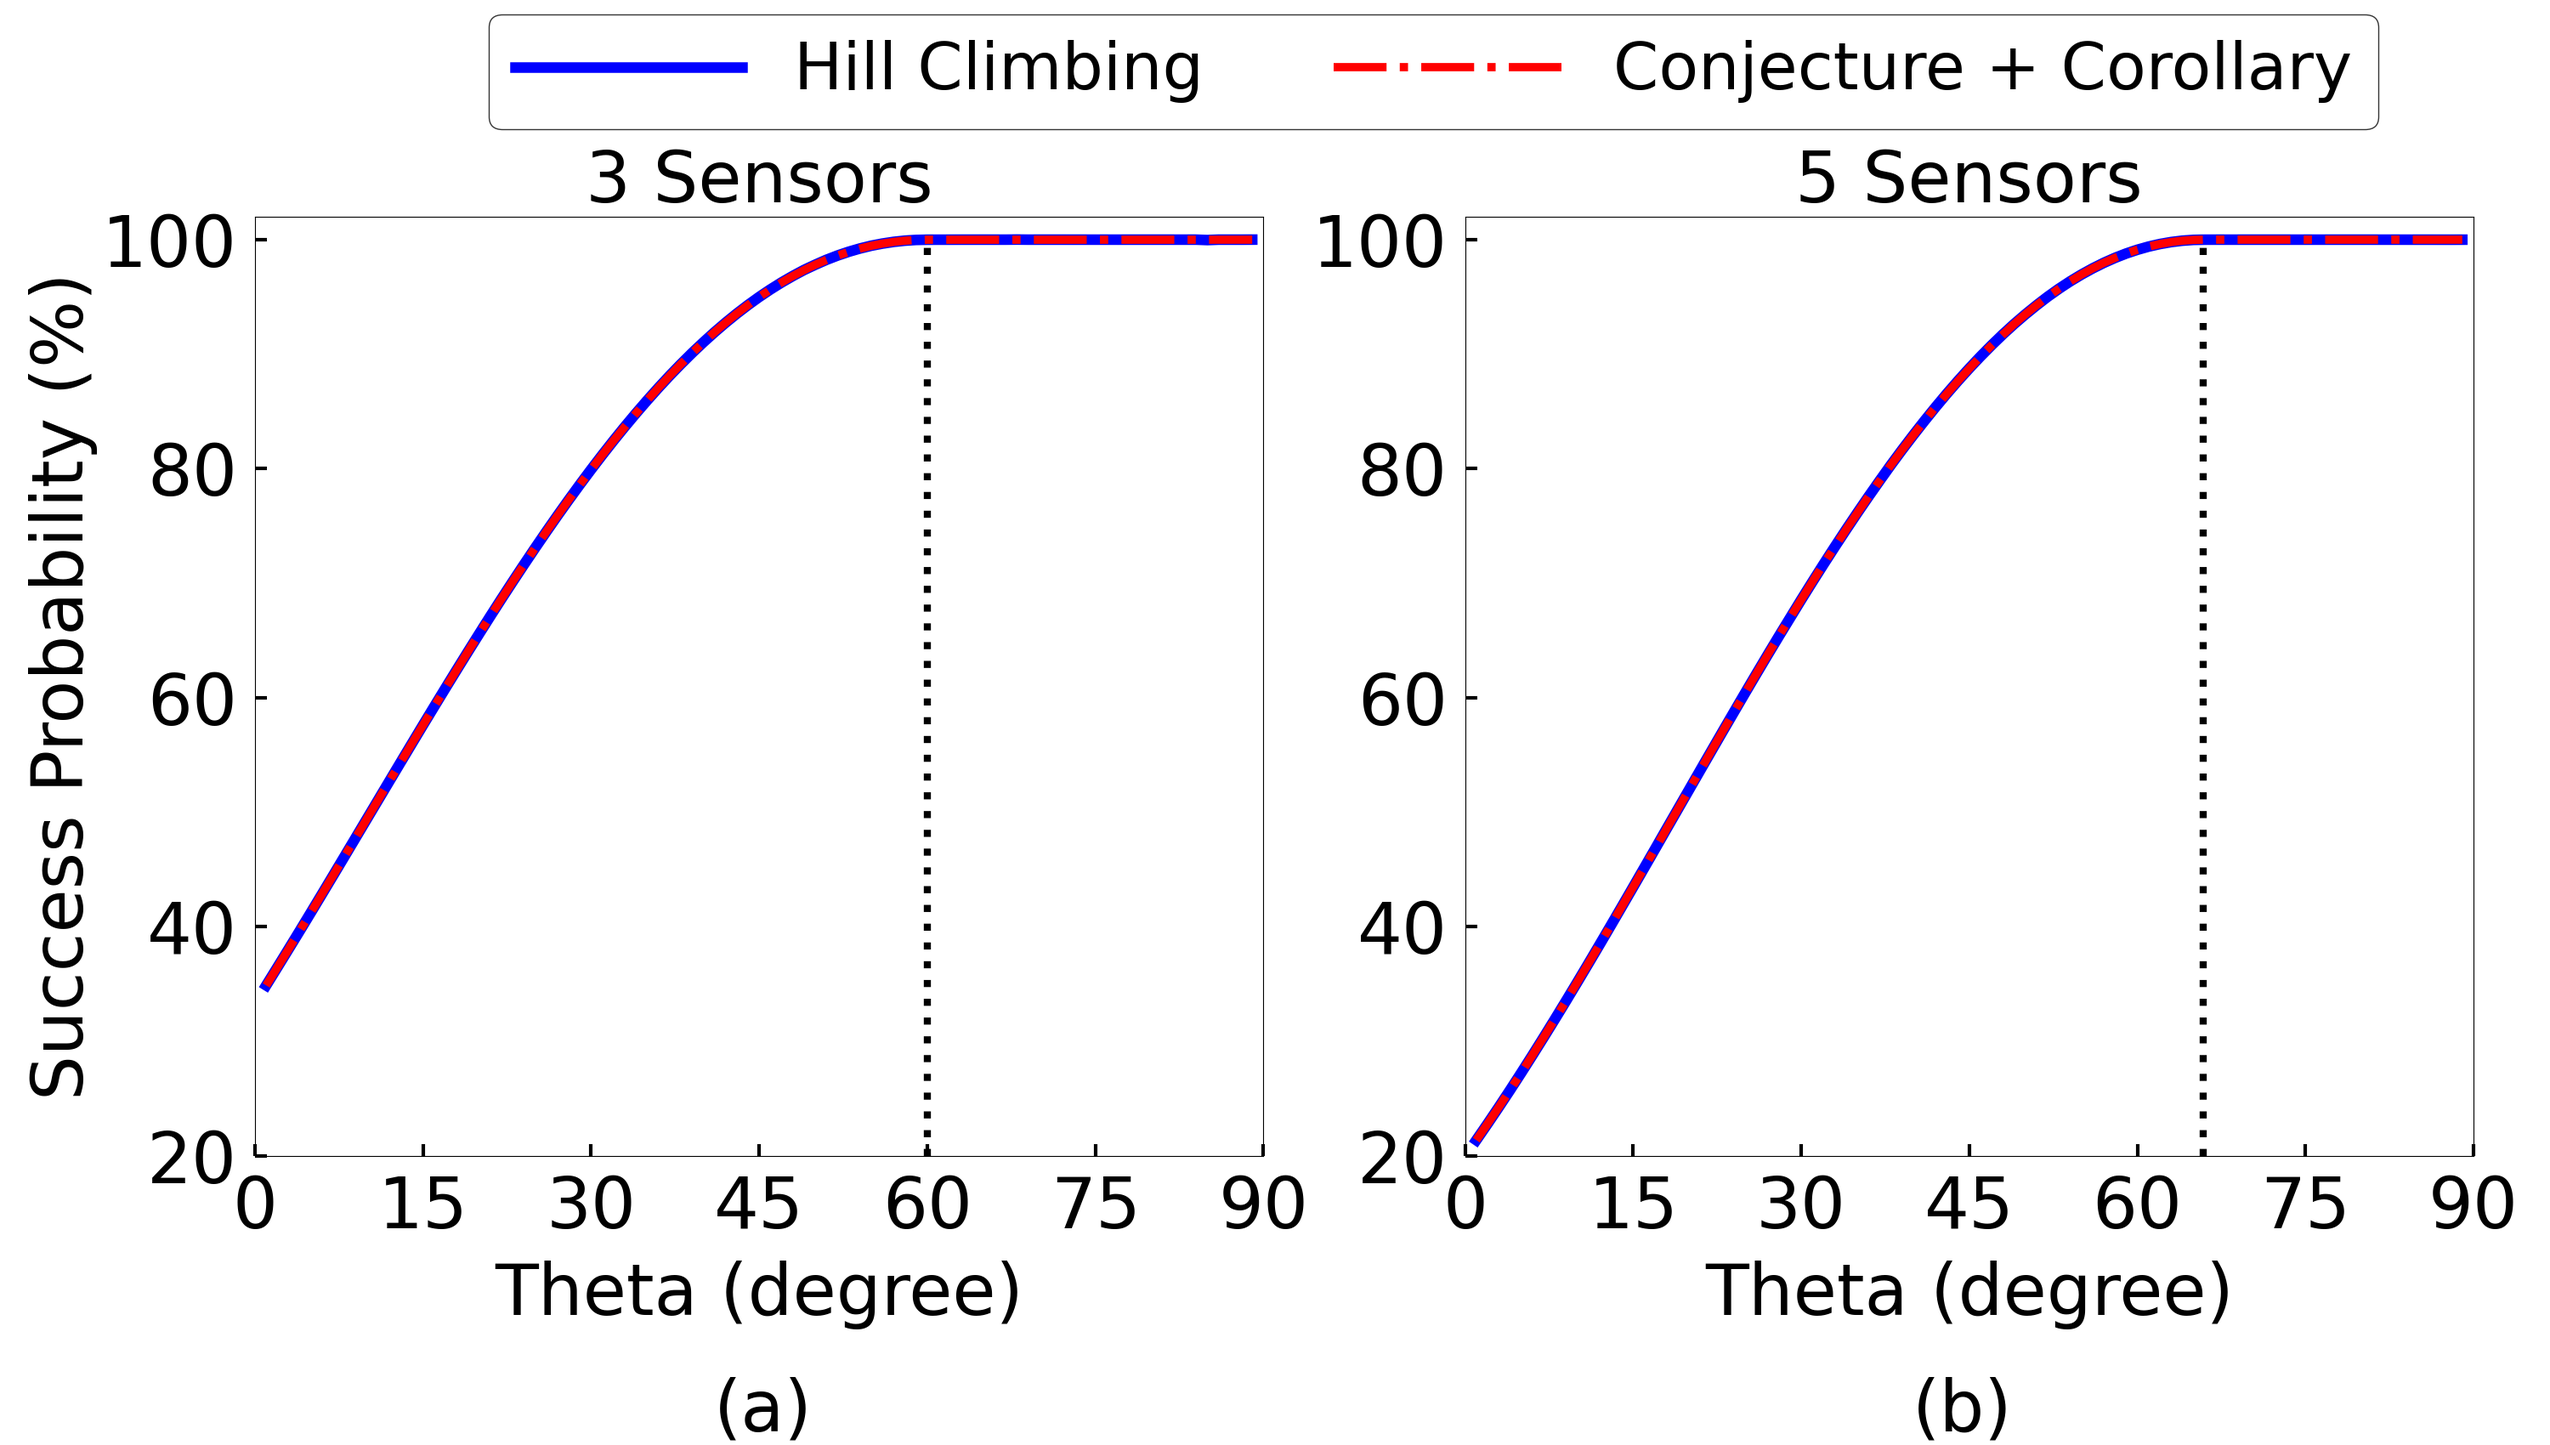
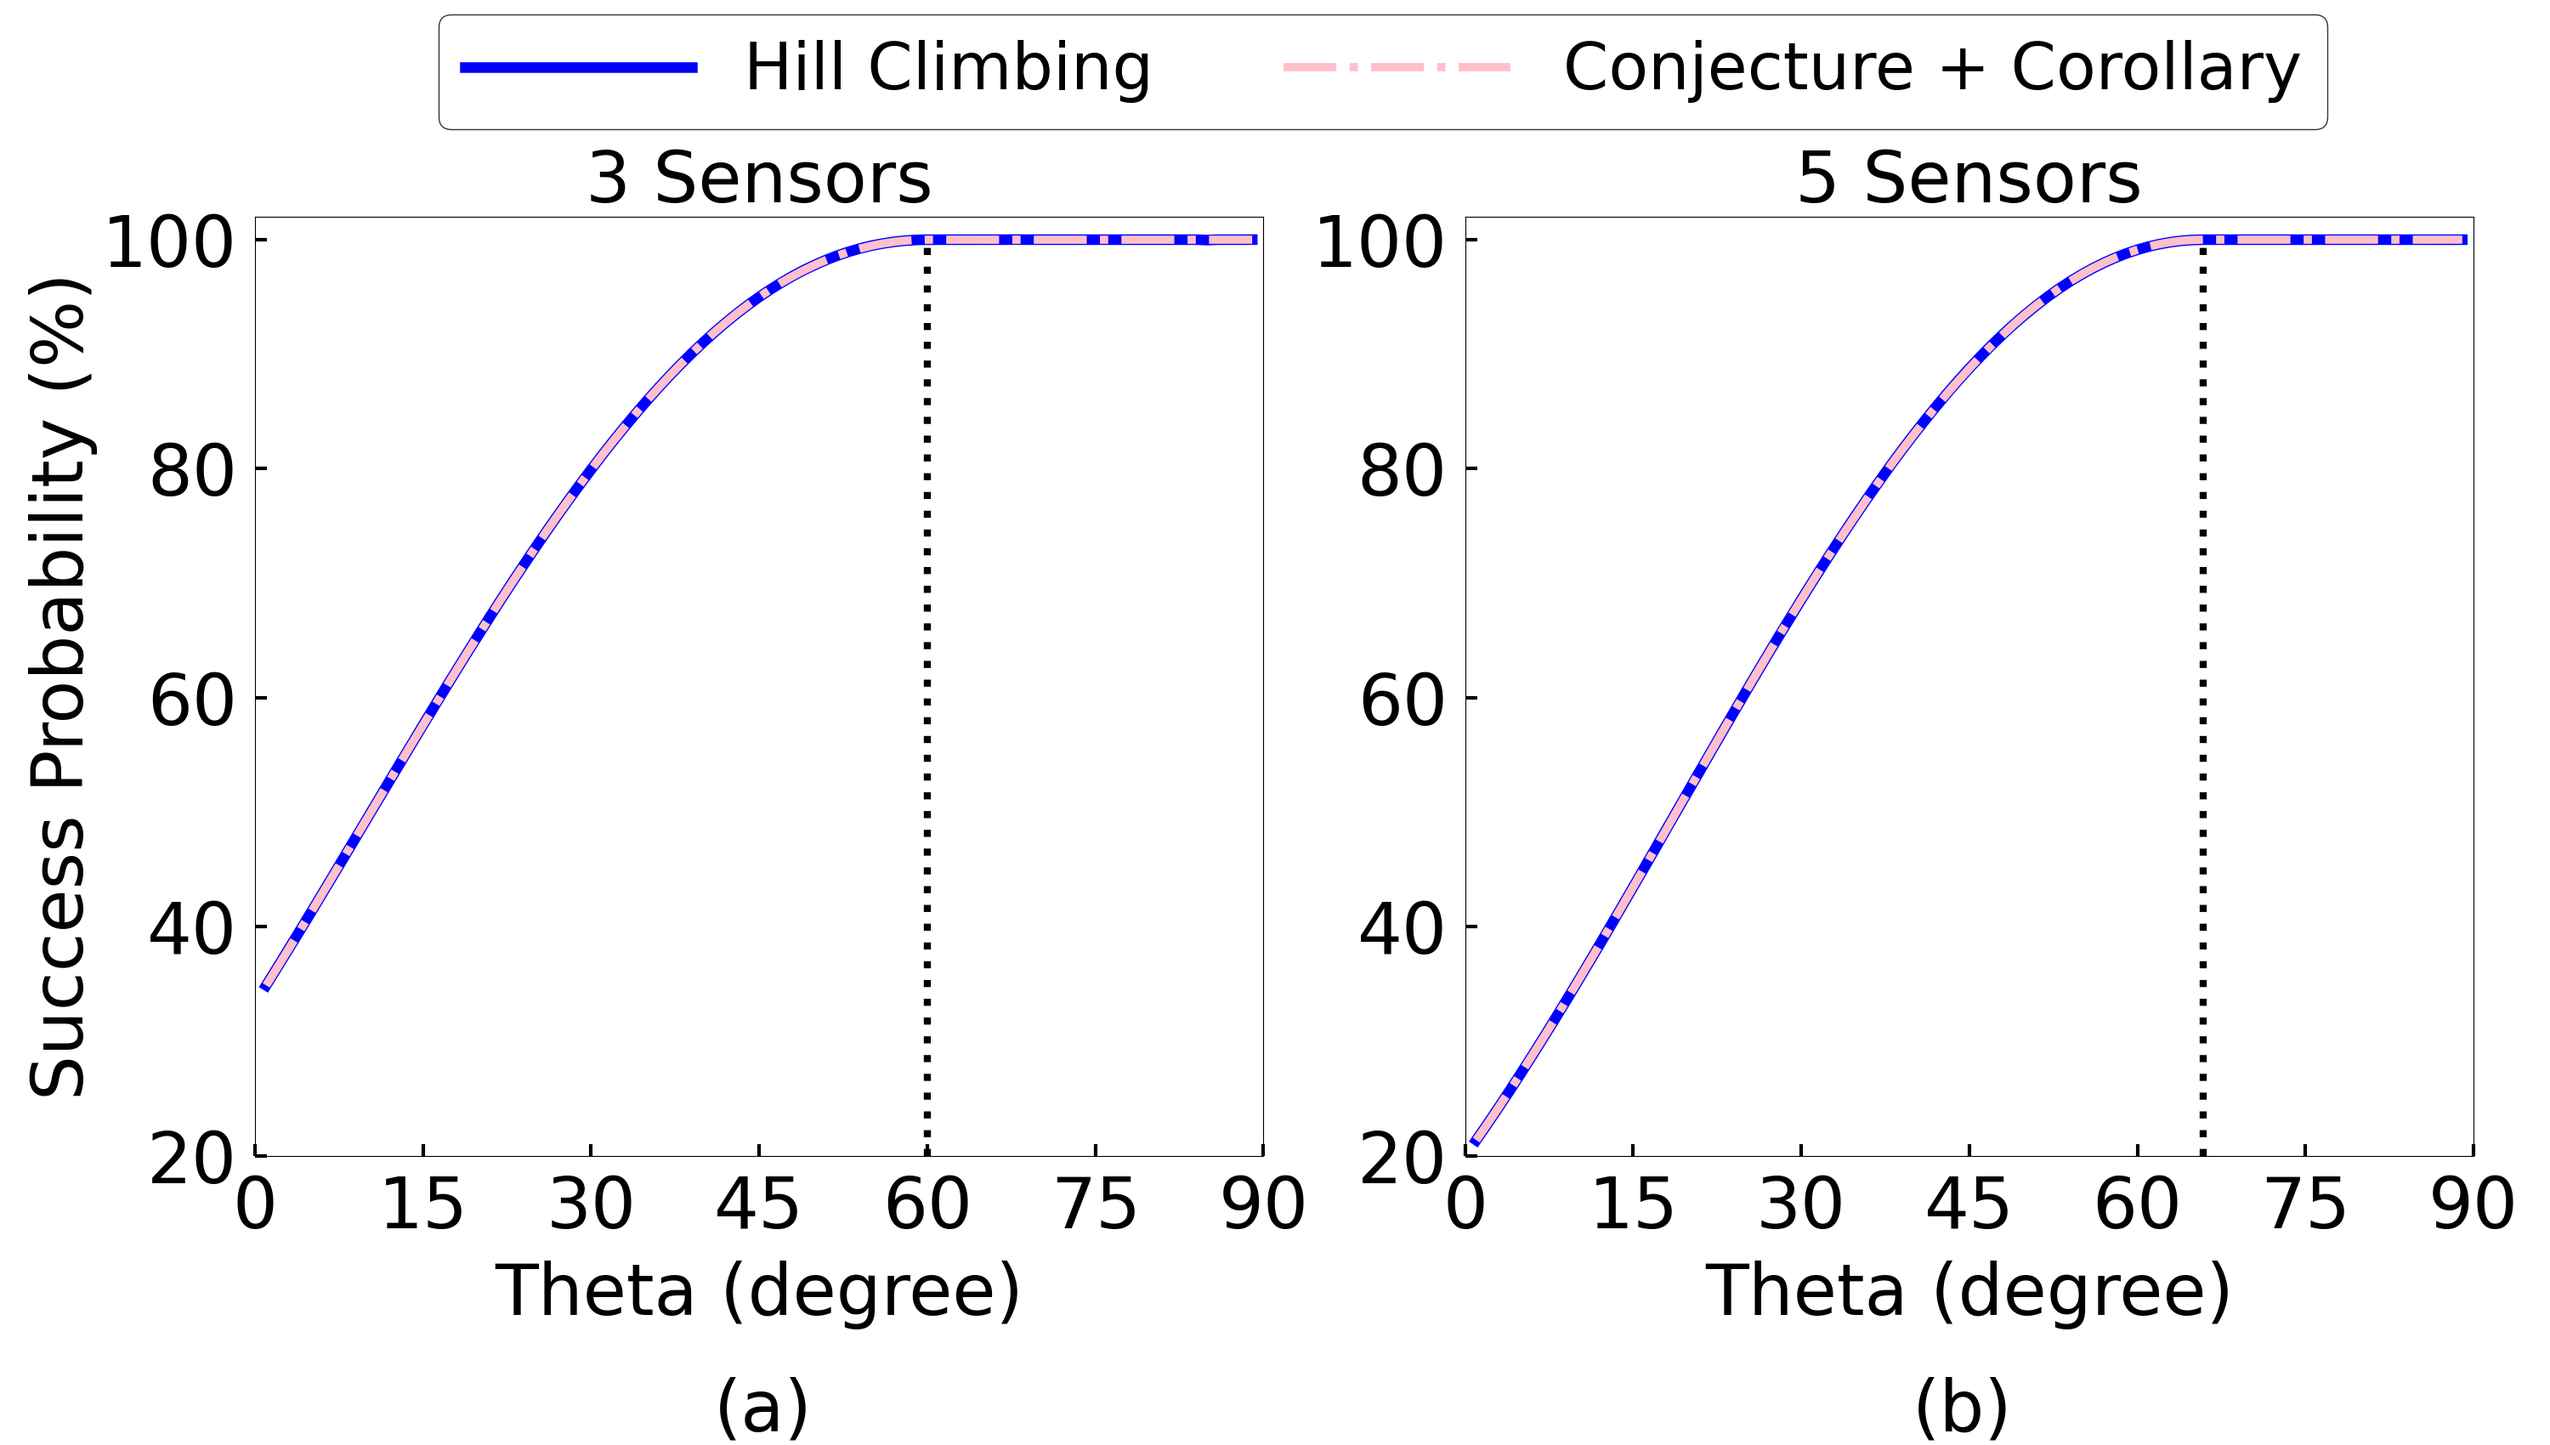
new plot for conjecture; rename files

diff --git a/plot2.py b/plot2.py
@@ -6,6 +6,7 @@ from optimize_initial_state import OptimizeInitialState
 from utility import Utility
 from collections import defaultdict
 
+
 class Plot:
 
     plt.rcParams['font.size'] = 60
@@ -20,7 +21,7 @@ class Plot:
     LINE_STYLE = dict(zip(_METHOD, _STYLE))
 
     _METHOD = ['Hill climbing', 'Simulated annealing', 'Genetic algorithm', 'Theorem']
-    _COLOR  = ['blue',   'orange',              'green',             'red']
+    _COLOR  = ['blue',          'orange',              'green',             'pink']
     COLOR   = dict(zip(_METHOD, _COLOR))
 
 
@@ -56,7 +57,7 @@ class Plot:
         ax.vlines(x=45,   ymin=0.2, ymax=1, linestyles='dotted', colors='black')
         ax.vlines(x=60,   ymin=0.2, ymax=1, linestyles='dotted', colors='black')
         ax.vlines(x=65.9, ymin=0.2, ymax=1, linestyles='dotted', colors='black')
-        ax.legend(fontsize='55', loc='center', bbox_to_anchor=(0.6, 0.25), edgecolor='black')
+        ax.legend(fontsize=55, loc='center', bbox_to_anchor=(0.6, 0.25), edgecolor='black')
         xticks = [i for i in range(0, 181, 15)]
         ax.set_xticks(xticks)
         ax.set_xticklabels([f'{x}' for x in xticks])
@@ -103,6 +104,7 @@ class Plot:
         Y2 = table2
         
         # plotting
+        arrowprops = dict(facecolor='black', width=5, headwidth=25)
         methods = ['Hill climbing', 'Simulated annealing', 'Genetic algorithm']
         fig, (ax0, ax1) = plt.subplots(1, 2, figsize=(30, 17))
         fig.subplots_adjust(left=0.1, right=0.97, top=0.85, bottom=0.2)
@@ -127,7 +129,8 @@ class Plot:
         ax0.set_xlim([0, 90])
         ax0.set_ylim([0.2, 1.02])
         ax0.set_ylabel('Success Probability (%)')
-        ax0.text(42, 0.865, '(40, 0.883)', fontsize=50)
+        ax0.annotate('(40, 0.883)', xy=(42, 0.883), xytext=(51, 0.883), arrowprops=arrowprops, fontsize=50, va='center')
+        # ax0.text(42.5, 0.864, '(40, 0.883)', fontsize=50)
         # ax1
         ax1.plot(Y2[methods[0]], linestyle=Plot.LINE_STYLE[methods[0]], color=Plot.COLOR[methods[0]], linewidth=9)
         ax1.plot(Y2[methods[1]], linestyle=Plot.LINE_STYLE[methods[1]], color=Plot.COLOR[methods[1]], linewidth=7)
@@ -144,6 +147,7 @@ class Plot:
         ax1.set_xlabel('Iteration Number', labelpad=15)
         ax1.set_xlim([-1, 50])
         ax1.set_ylim([0.805, 0.89])
+        ax1.annotate('Random Initial State', xy=(0.7, 0.811), xytext=(6, 0.811), arrowprops=arrowprops, fontsize=50, va='center')
         plt.figtext(0.28, 0.01, '(a)')
         plt.figtext(0.75, 0.01, '(b)')
         fig.savefig(filename)
@@ -270,7 +274,7 @@ class Plot:
         ax0.tick_params(axis='x', direction='in', length=10, width=3, pad=15)
         ax0.tick_params(axis='y', direction='in', length=10, width=3, pad=15)
         ax0.set_title('3 Sensors', fontsize=60)
-        ax0.legend(ncol=2, loc='upper left', bbox_to_anchor=(0.2, 1.2, 0.05, 0.05), fontsize=55, handlelength=3.5, edgecolor='black')
+        ax0.legend(ncol=2, loc='upper left', bbox_to_anchor=(0.15, 1.2, 0.05, 0.05), fontsize=55, handlelength=3.5, edgecolor='black')
         ax0.set_xlabel('Theta (degree)', labelpad=15)
         ax0.set_ylabel('Success Probability (%)')
         # ax1
@@ -294,6 +298,107 @@ class Plot:
         fig.savefig(filename)
 
 
+    @staticmethod
+    def conjecture_2(data, filename):
+        # data
+        table_6sensor = defaultdict(list)
+        table_7sensor = defaultdict(list)
+        table_8sensor = defaultdict(list)
+        table_9sensor = defaultdict(list)
+        for myinput, output_by_methods in data:
+            if myinput.num_sensor == 6:
+                for method, output in output_by_methods.items():
+                    table_6sensor[method].append({myinput.unitary_theta: output.success})
+            if myinput.num_sensor == 7:
+                for method, output in output_by_methods.items():
+                    table_7sensor[method].append({myinput.unitary_theta: output.success})
+            if myinput.num_sensor == 8:
+                for method, output in output_by_methods.items():
+                    table_8sensor[method].append({myinput.unitary_theta: output.success})
+            if myinput.num_sensor == 9:
+                for method, output in output_by_methods.items():
+                    table_9sensor[method].append({myinput.unitary_theta: output.success})
+
+        X = [i for i in range(1, 91)]
+        Y6 = defaultdict(list)
+        for method, mylist in table_6sensor.items():
+            y = defaultdict(list)
+            for key_val in mylist: # each theta only one experiment
+                for theta, success in key_val.items():
+                    y[theta] = success
+            y2 = []
+            for theta in X:
+                if theta in y:
+                    y2.append(y[theta])
+                else:
+                    raise Exception(f'data missing: theta={theta}')
+            Y6[method] = y2
+        Y7 = defaultdict(list)
+        for method, mylist in table_7sensor.items():
+            y = defaultdict(list)
+            for key_val in mylist: # each theta only one experiment
+                for theta, success in key_val.items():
+                    y[theta] = success
+            y2 = []
+            for theta in X:
+                if theta in y:
+                    y2.append(y[theta])
+                else:
+                    raise Exception(f'data missing: theta={theta}')
+            Y7[method] = y2
+        Y8 = defaultdict(list)
+        for method, mylist in table_8sensor.items():
+            y = defaultdict(list)
+            for key_val in mylist: # each theta only one experiment
+                for theta, success in key_val.items():
+                    y[theta] = success
+            y2 = []
+            for theta in X:
+                if theta in y:
+                    y2.append(y[theta])
+                else:
+                    raise Exception(f'data missing: theta={theta}')
+            Y8[method] = y2
+        Y9 = defaultdict(list)
+        for method, mylist in table_9sensor.items():
+            y = defaultdict(list)
+            for key_val in mylist: # each theta only one experiment
+                for theta, success in key_val.items():
+                    y[theta] = success
+            y2 = []
+            for theta in X:
+                if theta in y:
+                    y2.append(y[theta])
+                else:
+                    raise Exception(f'data missing: theta={theta}')
+            Y9[method] = y2
+        
+        # plotting
+        fig, ax = plt.subplots(1, 1, figsize=(24, 16))
+        fig.subplots_adjust(left=0.12, right=0.97, top=0.9, bottom=0.14)
+        method = 'Theorem'
+        ax.plot(X, Y6[method], label='6 Sensors')
+        ax.plot(X, Y7[method], label='7 Sensors')
+        ax.plot(X, Y8[method], label='8 Sensors')
+        ax.plot(X, Y9[method], label='9 Sensors')
+        ax.legend(edgecolor='black', fontsize=55, loc='lower center')
+        ax.vlines(x=65.9,   ymin=0, ymax=1, linestyles='dotted', colors='black')
+        ax.vlines(x=69.3,   ymin=0, ymax=1, linestyles='dotted', colors='black')
+        ax.vlines(x=71.6,   ymin=0, ymax=1, linestyles='dotted', colors='black')
+        xticks = [i for i in range(0, 91, 15)]
+        ax.set_xticks(xticks)
+        ax.set_xticklabels([f'{x}' for x in xticks])
+        yticks = [0.1, 0.2, 0.4, 0.6, 0.8, 1]
+        ax.set_yticks(yticks)
+        ax.set_yticklabels([f'{int(y * 100)}' for y in yticks])
+        ax.set_ylim([0.1, 1.02])
+        ax.set_xlim([0, 90])
+        ax.tick_params(axis='x', direction='in', length=10, width=3, pad=15)
+        ax.tick_params(axis='y', direction='in', length=10, width=3, pad=15)
+        ax.set_xlabel('Theta (degree)', labelpad=20)
+        ax.set_ylabel('Success Probability (%)')
+        ax.set_title('The Performance of Conjecture and Corollary', fontsize=60, pad=40)
+        fig.savefig(filename)
 
 def vary_theta():
     logs = ['result2/12.22.2022/varying_theta_2sensors', 'result2/12.22.2022/varying_theta_3sensors', \
@@ -326,16 +431,22 @@ def lemma2():
 
 
 def conjecture():
-    logs = ['result2/12.31.2022/conjecture.3sensor', 'result2/12.31.2022/conjecture.5sensor',
-            'result2/12.22.2022/varying_theta_3sensors', 'result2/12.22.2022/varying_theta_5sensors']
+    # logs = ['result2/12.31.2022/conjecture_3sensor', 'result2/12.31.2022/conjecture_5sensor',
+    #         'result2/12.22.2022/varying_theta_3sensors', 'result2/12.22.2022/varying_theta_5sensors']
+    # data = Logger.read_log(logs)
+    # filename = 'result2/12.31.2022/conjecture_1.png'
+    # Plot.conjecture_1(data, filename)
+
+    logs = ['result2/12.31.2022/conjecture_6sensor', 'result2/12.31.2022/conjecture_7sensor',
+            'result2/12.31.2022/conjecture_8sensor', 'result2/12.31.2022/conjecture_9sensor']
     data = Logger.read_log(logs)
-    filename = 'result2/12.31.2022/conjecture_1.png'
-    Plot.conjecture_1(data, filename)
+    filename = 'result2/12.31.2022/conjecture_2.png'
+    Plot.conjecture_2(data, filename)
 
 
 if __name__ == '__main__':
-    vary_theta()
+    # vary_theta()
     # methods_similar()
     # lemma2()
-    # conjecture()
+    conjecture()
     
